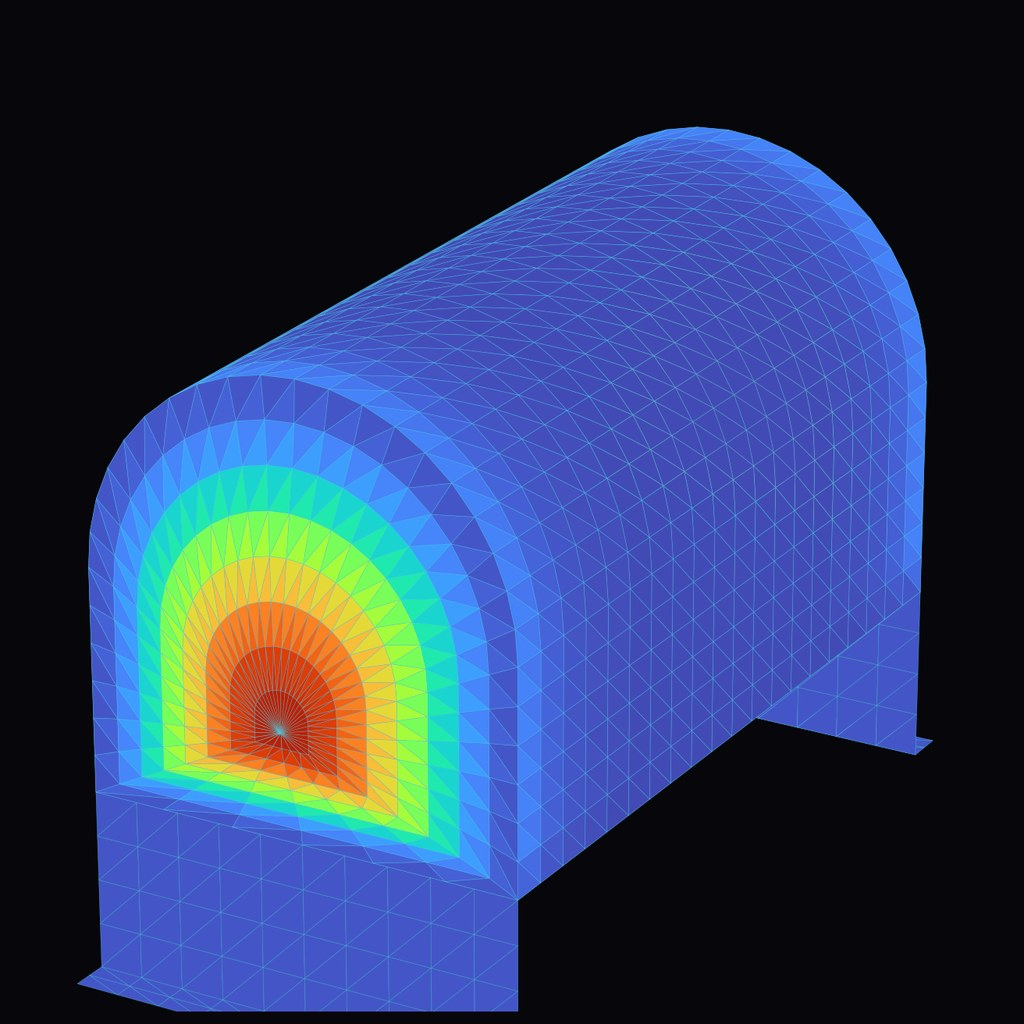
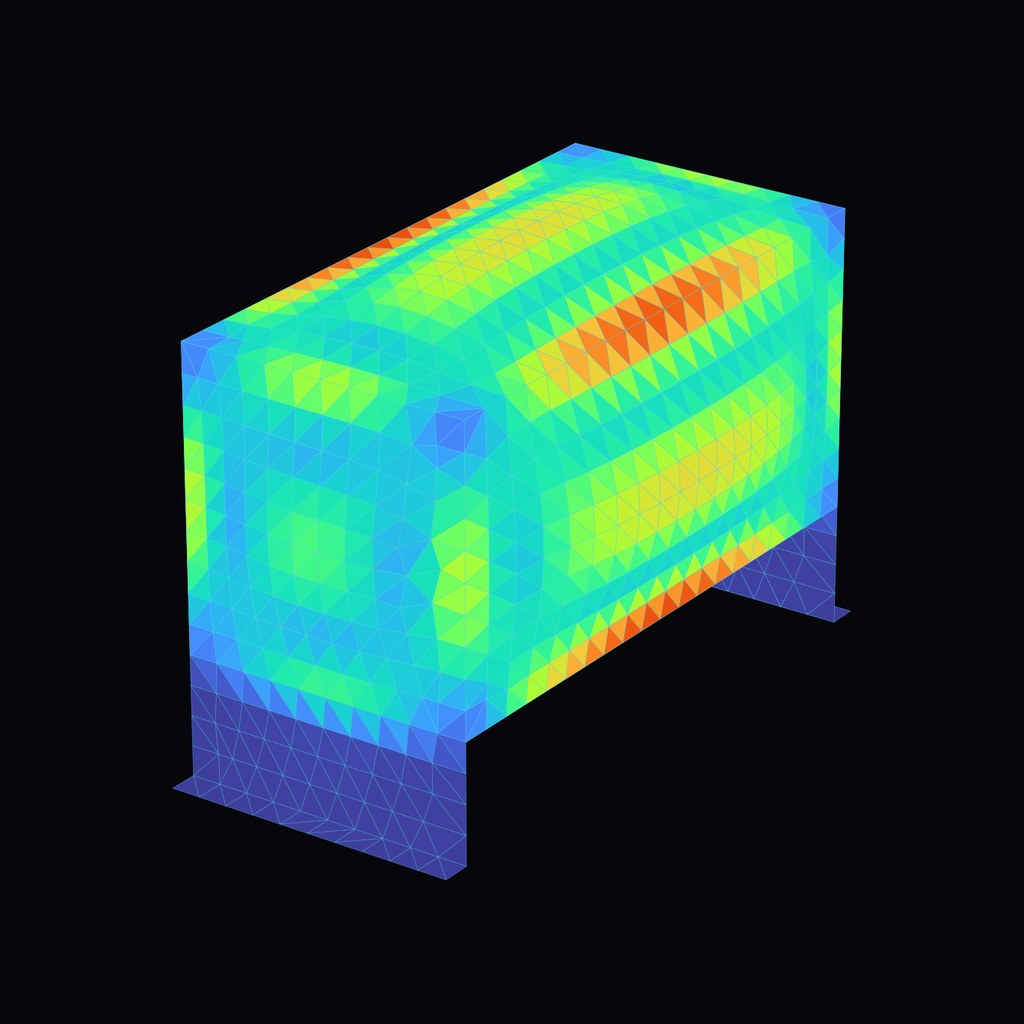
Simulation EF : rendus et résultats tirés du modèle réel de la citerne
Citerne refaite à partir du maillage du TP (boîte 1000 × 500 × 500),
avec les 10 fréquences propres, les chiffres clés de la statique et
une mise en page élargie pour le radiateur.

Claude-Session: https://claude.ai/code/session_01Fb5QWSry5U6M5WMs479AwB

diff --git a/simulation/index.html b/simulation/index.html
@@ -17,7 +17,7 @@
 *{margin:0;padding:0;box-sizing:border-box}
 html{background:var(--ink);scroll-behavior:smooth}
 body{background:var(--ink);color:var(--paper);font-family:var(--body);font-size:16px;line-height:1.65;-webkit-font-smoothing:antialiased;overflow-x:hidden}
-img{max-width:100%;display:block}
+img{max-width:100%;height:auto;display:block}
 a{color:inherit}
 .mono{font-family:var(--mono);font-size:12px;letter-spacing:.12em;text-transform:uppercase}
 .eyebrow{color:var(--violet);display:flex;align-items:center;gap:12px}
@@ -56,11 +56,24 @@ h3{font-family:var(--display);font-weight:500;font-size:1.25rem;text-transform:u
 .modes{display:grid;grid-template-columns:repeat(3,1fr);gap:clamp(12px,2vw,24px);margin-top:clamp(28px,5vh,56px)}
 .modes .hz{font-family:var(--display);font-size:1.6rem;color:var(--paper);letter-spacing:.02em}
 .modes figcaption{display:grid;gap:2px}
+.kpis{display:grid;grid-template-columns:repeat(3,1fr);gap:12px}
+.kpis>div{border:1px solid var(--line);border-radius:10px;padding:14px 16px;display:grid;gap:4px;background:var(--ink-2)}
+.kpis .mono{color:var(--dim);font-size:10px}
+.kpi{font-family:var(--display);font-size:clamp(1.6rem,3vw,2.2rem);line-height:1;color:var(--paper)}
+.kpi small{font-size:.5em;color:var(--dim);margin-left:2px}
+.freqs{margin-top:clamp(20px,3vh,32px);border:1px solid var(--line);border-radius:10px;overflow-x:auto;font-variant-numeric:tabular-nums}
+.freqs>div{display:grid;grid-template-columns:70px repeat(10,minmax(52px,1fr));min-width:640px}
+.freqs>div+div{border-top:1px solid var(--line)}
+.freqs span{padding:10px 8px;text-align:center}
+.freqs>div:first-child span{color:var(--dim)}
+.freqs [role=rowheader]{color:var(--violet)!important;text-align:left;padding-left:16px}
+.rad{display:grid;gap:clamp(32px,5vh,56px)}
+.rad>.facts{grid-template-columns:1fr 1fr;gap:clamp(20px,4vw,56px)}
 .callout{margin-top:clamp(24px,4vh,40px);border-left:2px solid var(--violet);padding:4px 0 4px 20px;max-width:75ch;color:var(--dim)}
 .callout strong{color:var(--paper);font-weight:500}
 
 .steps{display:grid;gap:clamp(14px,2.5vh,24px);margin-top:8px}
-.step{display:grid;grid-template-columns:200px 1fr;gap:clamp(14px,3vw,36px);align-items:center}
+.step{display:grid;grid-template-columns:240px 1fr;gap:clamp(14px,3vw,36px);align-items:center}
 .step .panel img{width:100%}
 .step-label{display:grid;gap:4px}
 .step-label .mono{color:var(--violet)}
@@ -79,6 +92,8 @@ footer .wrap{display:flex;flex-wrap:wrap;justify-content:space-between;gap:16px}
   .modes{grid-template-columns:1fr 1fr}
   .step{grid-template-columns:1fr}
   .takeaways{grid-template-columns:1fr}
+  .rad>.facts{grid-template-columns:1fr}
+  .kpis{grid-template-columns:1fr 1fr 1fr;gap:8px}
   .study-head{grid-template-columns:1fr}
   .study-head p{grid-column:1}
 }
@@ -96,8 +111,8 @@ footer .wrap{display:flex;flex-wrap:wrap;justify-content:space-between;gap:16px}
   <div class="wrap hero">
     <p class="eyebrow mono">Projet 06 · Modélisation</p>
     <h1>Simulation par <em>éléments finis</em></h1>
-    <p class="lead">Deux études menées en travaux pratiques à l'ECAM-EPMI : vérifier qu'une citerne en aluminium résiste à sa pression de service, puis dimensionner le radiateur d'un microprocesseur pour qu'il reste sous 85 °C. Dans les deux cas, la démarche est la même : poser les hypothèses, construire le modèle, l'exploiter, puis décider.</p>
-    <div class="tags mono"><span>GeoStar · COSMOS/M</span><span>Statique</span><span>Analyse modale</span><span>Thermique</span><span>Optimisation</span></div>
+    <p class="lead">Deux études menées en binôme, en travaux pratiques à l'ECAM-EPMI : vérifier qu'une citerne en aluminium résiste à sa pression de service, puis dimensionner le radiateur d'un microprocesseur pour qu'il reste sous 85 °C. Dans les deux cas, la démarche est la même : poser les hypothèses, construire le modèle, l'exploiter, puis décider.</p>
+    <div class="tags mono"><span>GeoStar · COSMOS/M</span><span>Statique</span><span>Analyse modale</span><span>Thermique</span><span>Optimisation</span><span>En binôme</span></div>
   </div>
 
   <!-- CITERNE -->
@@ -111,8 +126,8 @@ footer .wrap{display:flex;flex-wrap:wrap;justify-content:space-between;gap:16px}
 
       <div class="split">
         <figure class="panel">
-          <img src="img/citerne-statique.jpg" alt="Maillage de la citerne coloré selon la contrainte : le maximum se situe au centre du fond plat" width="1100" height="1100" loading="lazy" />
-          <figcaption class="mono">Statique · zone critique au centre des fonds plats</figcaption>
+          <img src="img/citerne-statique.jpg" alt="Maillage de la citerne coloré selon la contrainte de Von Mises, déformée amplifiée" width="1000" height="1000" loading="lazy" />
+          <figcaption class="mono">Von Mises · déformée amplifiée ×25</figcaption>
         </figure>
         <div class="facts">
           <div>
@@ -122,35 +137,42 @@ footer .wrap{display:flex;flex-wrap:wrap;justify-content:space-between;gap:16px}
           <div>
             <h3>Le modèle</h3>
             <ul>
-              <li><strong>Coque 3D</strong> de 6 mm d'épaisseur, contraintes planes, petites déformations</li>
-              <li><strong>Maillage</strong> en éléments de 50 mm</li>
-              <li><strong>Encastrement</strong> des semelles des pattes, là où elles sont soudées au châssis</li>
+              <li><strong>Coque 3D</strong> de 6 mm, contraintes planes, petites déformations</li>
+              <li><strong>2 236 éléments</strong> triangulaires de 50 mm environ</li>
+              <li><strong>Encastrement</strong> des semelles des pattes, soudées au châssis</li>
               <li><strong>Matériau</strong> : E = 75 000 MPa, ν = 0,33, ρ = 2,7 kg/dm³</li>
             </ul>
           </div>
-          <div>
-            <h3>Ce que montre le calcul</h3>
-            <p style="color:var(--dim)">Les parois cintrées travaillent peu : la pression est reprise en membrane. Ce sont les <strong style="color:var(--paper);font-weight:500">fonds plats</strong> qui fléchissent et concentrent la contrainte. C'est donc là que se joue la tenue de la cuve, et c'est là qu'il faudrait renforcer pour monter en pression.</p>
+          <div class="kpis">
+            <div><span class="kpi">≈ 60<small> MPa</small></span><span class="mono">Von Mises max</span></div>
+            <div><span class="kpi">2,6<small> mm</small></span><span class="mono">Déplacement max</span></div>
+            <div><span class="kpi">≈ 0,5<small> bar</small></span><span class="mono">Pression admissible</span></div>
           </div>
+          <p style="color:var(--dim)">La cuve tient, avec une marge d'environ ×2 sur la limite élastique. Les grandes parois planes fléchissent sous la pression : la contrainte se concentre le long des arêtes, là où elles se raccordent entre elles.</p>
         </div>
       </div>
 
       <div class="modes">
         <figure class="panel">
-          <img src="img/citerne-mode1.jpg" alt="Mode propre 1 : la cuve entière oscille sur ses pattes" width="640" height="640" loading="lazy" />
-          <figcaption><span class="mono" style="color:var(--violet)">Mode 1</span><span class="hz">23,9 Hz</span><span style="color:var(--dim)">La cuve entière balance sur ses pattes.</span></figcaption>
+          <img src="img/citerne-mode1.jpg" alt="Mode propre 1 : la cuve entière balance sur ses pattes" width="640" height="640" loading="lazy" />
+          <figcaption><span class="mono" style="color:var(--violet)">Mode 1</span><span class="hz">31,7 Hz</span><span style="color:var(--dim)">La cuve entière balance sur ses pattes.</span></figcaption>
         </figure>
         <figure class="panel">
-          <img src="img/citerne-mode2.jpg" alt="Modes propres 2 et 3 : les fonds plats se bombent" width="640" height="640" loading="lazy" />
-          <figcaption><span class="mono" style="color:var(--violet)">Modes 2 et 3</span><span class="hz">118,9 · 126,3 Hz</span><span style="color:var(--dim)">Les fonds plats se bombent.</span></figcaption>
+          <img src="img/citerne-mode2.jpg" alt="Mode propre 2 : le dessus et une paroi latérale se bombent" width="640" height="640" loading="lazy" />
+          <figcaption><span class="mono" style="color:var(--violet)">Mode 2</span><span class="hz">81,2 Hz</span><span style="color:var(--dim)">Le dessus et les flancs se bombent.</span></figcaption>
         </figure>
         <figure class="panel">
-          <img src="img/citerne-mode4.jpg" alt="Mode propre 4 : lobes de flexion sur la virole" width="640" height="640" loading="lazy" />
-          <figcaption><span class="mono" style="color:var(--violet)">Mode 4</span><span class="hz">223,0 Hz</span><span style="color:var(--dim)">La virole ondule en lobes.</span></figcaption>
+          <img src="img/citerne-mode3.jpg" alt="Mode propre 3 : une paroi latérale se bombe" width="640" height="640" loading="lazy" />
+          <figcaption><span class="mono" style="color:var(--violet)">Mode 3</span><span class="hz">108,1 Hz</span><span style="color:var(--dim)">Un flanc vibre seul.</span></figcaption>
         </figure>
       </div>
 
-      <p class="callout"><strong>Pourquoi les modes comptent.</strong> Le premier mode, à 23,9 Hz, est très bas. Si le véhicule vibre à cette fréquence, la cuve entre en résonance : les amplitudes s'amplifient et les soudures des pattes travaillent en fatigue. Le calcul statique seul ne le montrerait pas.</p>
+      <div class="freqs" role="table" aria-label="Dix premières fréquences propres">
+        <div role="row"><span class="mono" role="rowheader">Mode</span><span>1</span><span>2</span><span>3</span><span>4</span><span>5</span><span>6</span><span>7</span><span>8</span><span>9</span><span>10</span></div>
+        <div role="row"><span class="mono" role="rowheader">Hz</span><span>31,7</span><span>81,2</span><span>108,1</span><span>109,9</span><span>135,8</span><span>145,2</span><span>154,7</span><span>156,1</span><span>169,5</span><span>172,7</span></div>
+      </div>
+
+      <p class="callout"><strong>Pourquoi les modes comptent.</strong> Le premier mode, à 31,7 Hz, correspond au balancement de la cuve sur ses pattes. Si le véhicule vibre à cette fréquence, la cuve entre en résonance : les oscillations s'amplifient et les soudures des pattes travaillent en fatigue, jusqu'au risque de fissuration. Le calcul statique seul ne le montrerait pas.</p>
     </div>
   </section>
 
@@ -163,7 +185,7 @@ footer .wrap{display:flex;flex-wrap:wrap;justify-content:space-between;gap:16px}
         <p>Dissiper 1,2 W produits par une puce de 50 × 15 × 3 mm sans dépasser 85 °C, avec une ambiance à 20 °C.</p>
       </div>
 
-      <div class="split" style="align-items:start">
+      <div class="rad">
         <div class="facts">
           <div>
             <h3>Le modèle</h3>
@@ -178,9 +200,8 @@ footer .wrap{display:flex;flex-wrap:wrap;justify-content:space-between;gap:16px}
             <h3>La démarche</h3>
             <ul>
               <li>Puce seule, pour mesurer le problème</li>
-              <li>Vérification de la sensibilité au maillage (éléments 2 fois plus gros)</li>
-              <li>Ajout du radiateur, puis du ventilateur entre les ailettes centrales</li>
-              <li>Optimisation du nombre et de la hauteur des ailettes pour <strong>gagner du poids</strong> sous la contrainte des 85 °C</li>
+                            <li>Ajout du radiateur, puis du ventilateur entre les ailettes centrales</li>
+              <li>Recherche du radiateur le plus léger qui respecte les 85 °C</li>
             </ul>
           </div>
         </div>
@@ -192,7 +213,7 @@ footer .wrap{display:flex;flex-wrap:wrap;justify-content:space-between;gap:16px}
               <figure class="panel"><img src="img/processeur-seul.jpg" alt="Champ de température de la puce seule, chaude au centre" width="1400" height="150" loading="lazy" /></figure>
             </div>
             <div class="step">
-              <div class="step-label"><span class="mono">02 · Radiateur</span><p>Les ailettes évacuent la chaleur vers l'air.</p></div>
+              <div class="step-label"><span class="mono">02 · Radiateur</span><p>6 ailettes : 37,8 °C au maximum, bien sous les 85 °C.</p></div>
               <figure class="panel"><img src="img/radiateur.jpg" alt="Champ de température avec radiateur à six ailettes" width="1400" height="443" loading="lazy" /></figure>
             </div>
             <div class="step">
@@ -224,7 +245,7 @@ footer .wrap{display:flex;flex-wrap:wrap;justify-content:space-between;gap:16px}
 
 <footer>
   <div class="wrap mono">
-    <span>Visuels recréés à partir de mes modèles GeoStar</span>
+    <span>Modèles GeoStar · rendus retravaillés</span>
     <a href="../#work">← Retour aux projets</a>
   </div>
 </footer>
